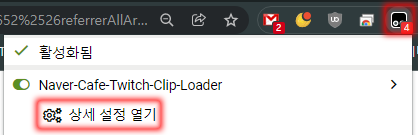
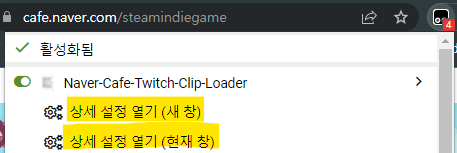
0.0.9

diff --git a/Naver-Cafe-Twitch-Clip-Loader.user.js b/Naver-Cafe-Twitch-Clip-Loader.user.js
@@ -1,7 +1,7 @@
 // ==UserScript==
 // @name        Naver-Cafe-Twitch-Clip-Loader
 // @namespace   Naver-Cafe-Twitch-Clip-Loader
-// @version     0.0.8
+// @version     0.0.9
 // @description Userscript that makes it easy to watch Twitch clips on Naver Cafe
 // @author      Nomo
 // @include     https://cafe.naver.com/*
@@ -241,7 +241,7 @@
     //await GM_setting.init("GM_SETTINGS", _settings);
     await GM_setting.init("GM_SETTINGS", {"DEBUG":DEBUG, "SETTINGS":_settings, "CONSOLE_MSG":NOMO_DEBUG, "MULTILANG":false});
     if(typeof GM.registerMenuCommand === "function"){
-        GM.registerMenuCommand("상세 설정 열기", function(){
+        GM.registerMenuCommand("상세 설정 열기 (새 창)", function(){
             var ww = $(window).width(),
                 wh = $(window).height();
             var wn = (ww > 930 ? 930 : ww/5*4);
@@ -250,8 +250,68 @@
             window.open("https://cafe.naver.com/NaverCafeTwitchClipLoaderSettings/","winname",
                 "directories=no,titlebar=no,toolbar=no,location=no,status=no,menubar=no,scrollbars=yes,resizable=yes,width="+wn+",height="+wh/5*4+",top="+top+",left="+left);
         });
+        GM.registerMenuCommand("상세 설정 열기 (현재 창)", openSettingsMenu);
     }
 
+    // 설정 메뉴 추가 및 관리
+    function openSettingsMenu(){
+        try{
+            if(document === undefined){
+                NOMO_DEBUG("Document is undefined from openSettingsMenu");
+                return;
+            }
+            if(!/(^https:\/\/cafe\.naver\.com\/)/.test(document.location.href)){
+                NOMO_DEBUG("no naver cafe: return from openSettingsMenu");
+                return;
+            }
+            NOMO_DEBUG("msg from openSettingsMenu");
+            var GM_Setting_Bootstrap = 'GM_Setting_Bootstrap';
+            $("#nomo_settings_container").remove();
+
+            var $container = $( /*html*/ `
+            <div id="nomo_settings_container" style="display:none;cursor:pointer;position:fixed;top:0;left:0;width:100%;height:100%;z-index:200000;background:rgba(0,0,0,0.93);">
+                <div id="nomo_settings" style="cursor:default;font-size:12px;max-width:850px;max-height:calc(100% - 40px);margin:20px auto;background:#fff;padding:10px 20px;border-radius:5px;overflow-y:scroll;"></div>
+            </div>`).appendTo("body");
+            $container.on("click", function () {
+                $("#GM_Setting_css_temp").remove();
+                $("#GM_Setting_Bootstrap").remove();
+                $(this).fadeOut(500, function () {
+                    $(this).remove();
+                });
+            });
+            $container.find("#nomo_settings").on("click", function (e) {
+                e.stopPropagation();
+            });
+
+            /*!
+            * Bootstrap v3.1.1 (http://getbootstrap.com)
+            * Copyright 2011-2014 Twitter, Inc.
+            * Licensed under MIT (https://github.com/twbs/bootstrap/blob/master/LICENSE)
+            */
+            if (!document.getElementById(GM_Setting_Bootstrap)) {
+                var head = document.getElementsByTagName('head')[0];
+                var link = document.createElement('link');
+                link.id = GM_Setting_Bootstrap;
+                link.rel = 'stylesheet';
+                link.type = 'text/css';
+                link.href = 'https://maxcdn.bootstrapcdn.com/bootstrap/3.1.1/css/bootstrap.min.css';
+                link.media = 'all';
+                head.appendChild(link);
+            }
+            if ($("#GM_Setting_css_temp").length == 0){
+                $("head").append(`<style id='GM_Setting_css_temp' rel='stylesheet' type='text/css'>ul, ol{margin:0; padding:0 !important;}
+                #nomo_settings::-webkit-scrollbar { width: 8px; height: 8px; background: #eee; }
+                #nomo_settings::-webkit-scrollbar-thumb { background: #ccc; }
+                body{overflow-y:hidden;}</style>`);
+            }
+
+            $("#nomo_settings_container").fadeIn(500);
+            GM_setting.createlayout($("#nomo_settings"));
+        }
+        catch(e){
+            NOMO_DEBUG("Error from openSettingsMenu function", e);
+        }
+    }
     // 설정 페이지
     if(/(^https:\/\/cafe\.naver\.com\/NaverCafeTwitchClipLoaderSettings)/.test(document.location.href)){
         $("body").empty().css("padding","0px 30px 0px 30px");

diff --git a/README.md b/README.md
@@ -54,6 +54,11 @@ Naver-Cafe-Twitch-Clip-Loader 의 설치 방법을 설명합니다.
 
 ## Change log
 
+### 0.0.9 (Mar. 31, 2022)
+
+- 기능 추가
+  - 상세 설정 창을 새 창을 띄우지 않고 바로 열 수 있도록 "상세 설정 열기 (현재 창)" 버튼을 추가했습니다. (AdBlock 사용자를 위함)
+
 ### 0.0.8 (Mar. 20, 2022)
 
 - 기능 추가
